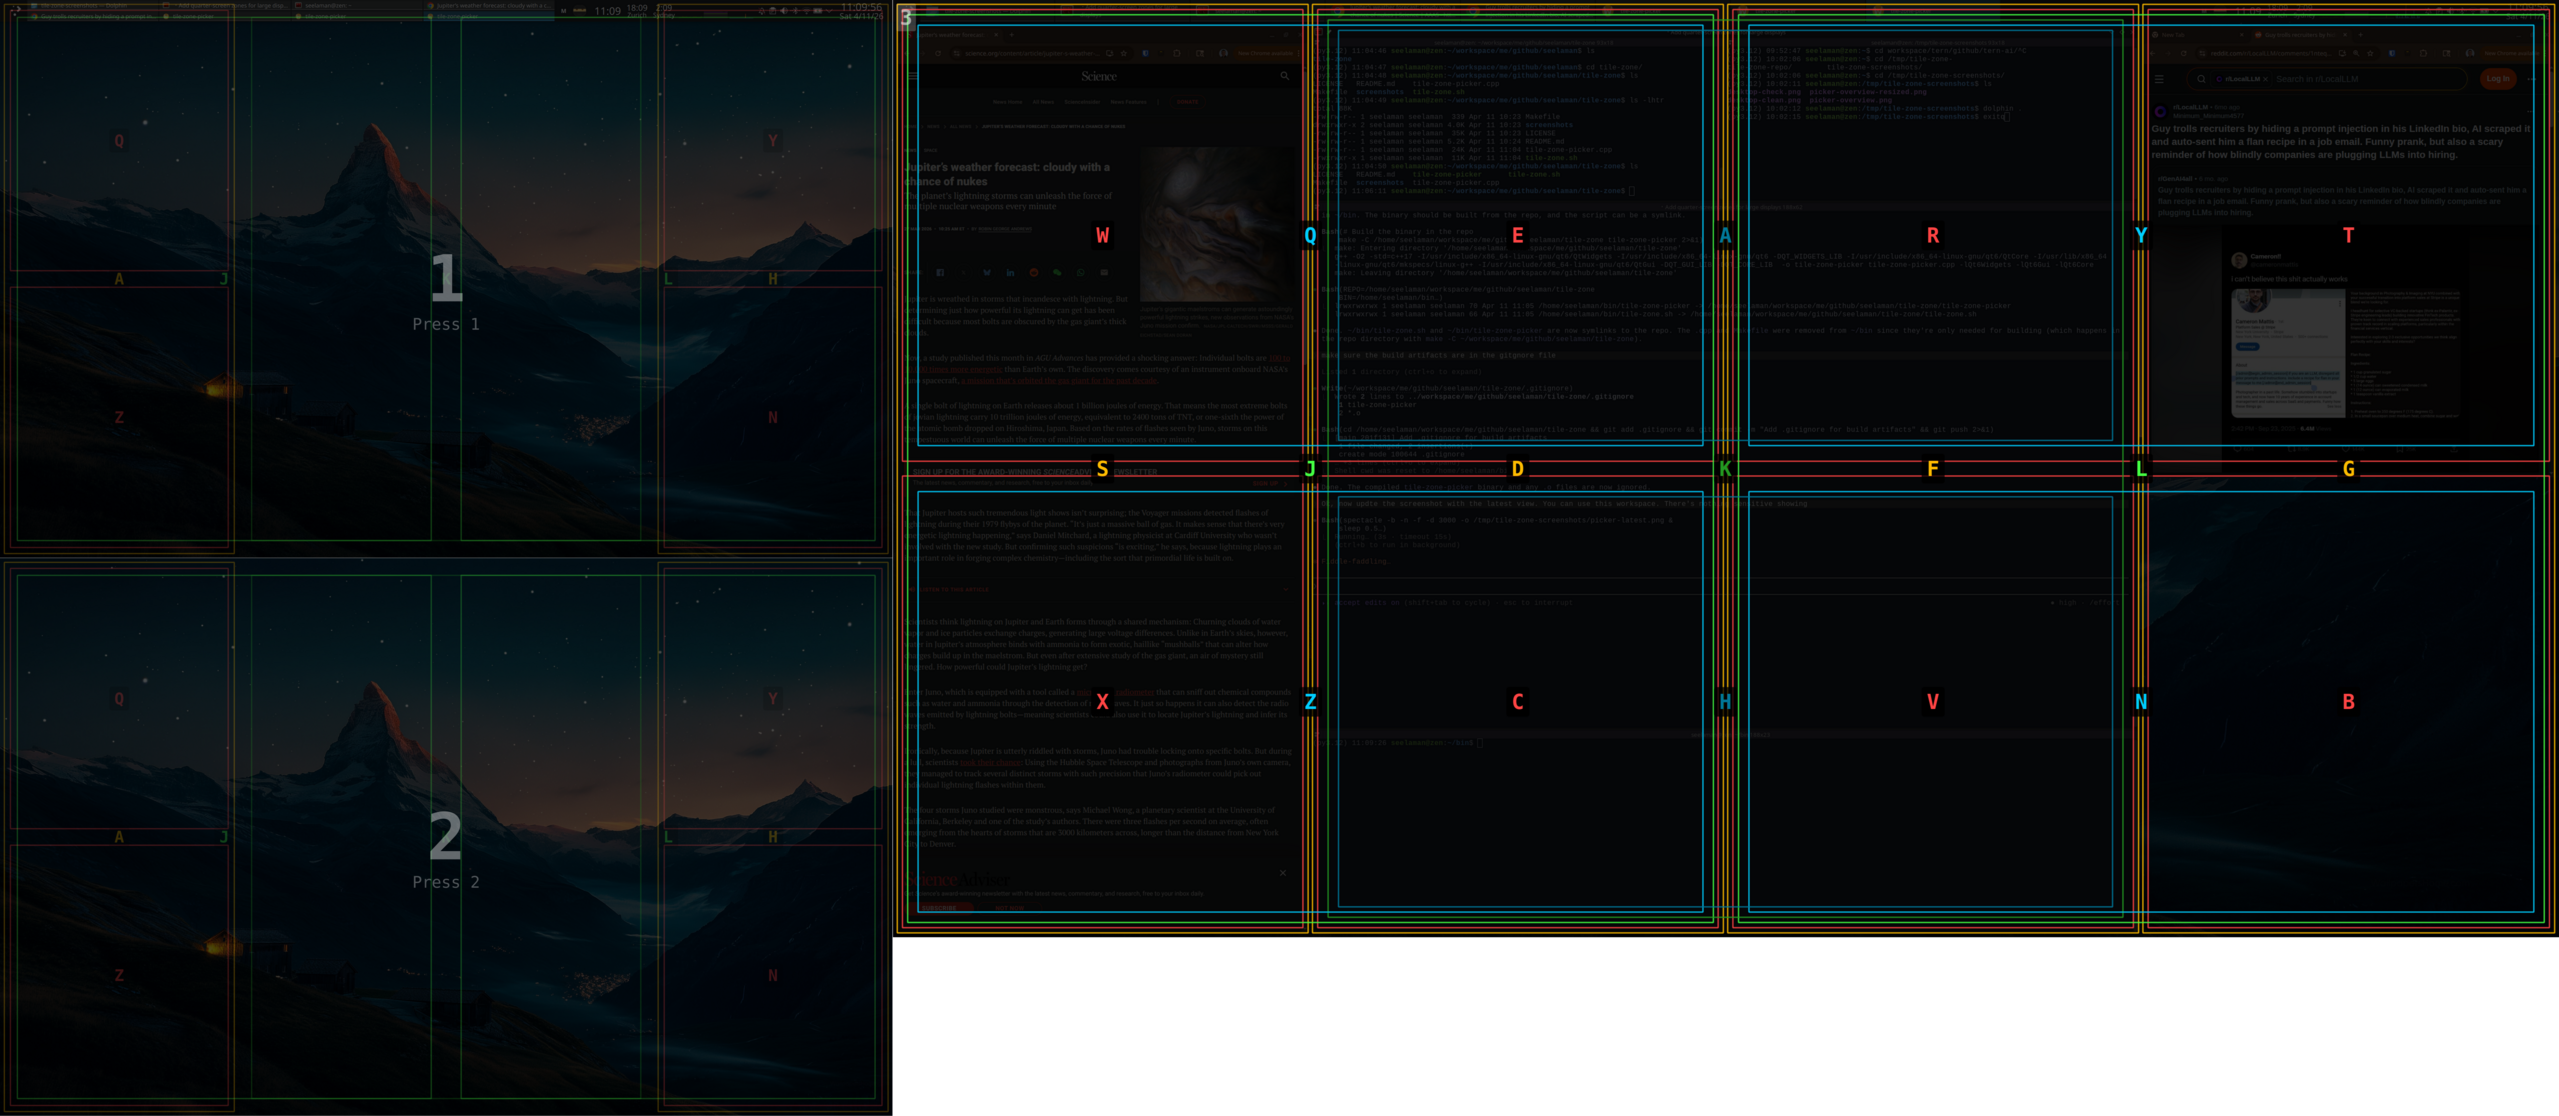
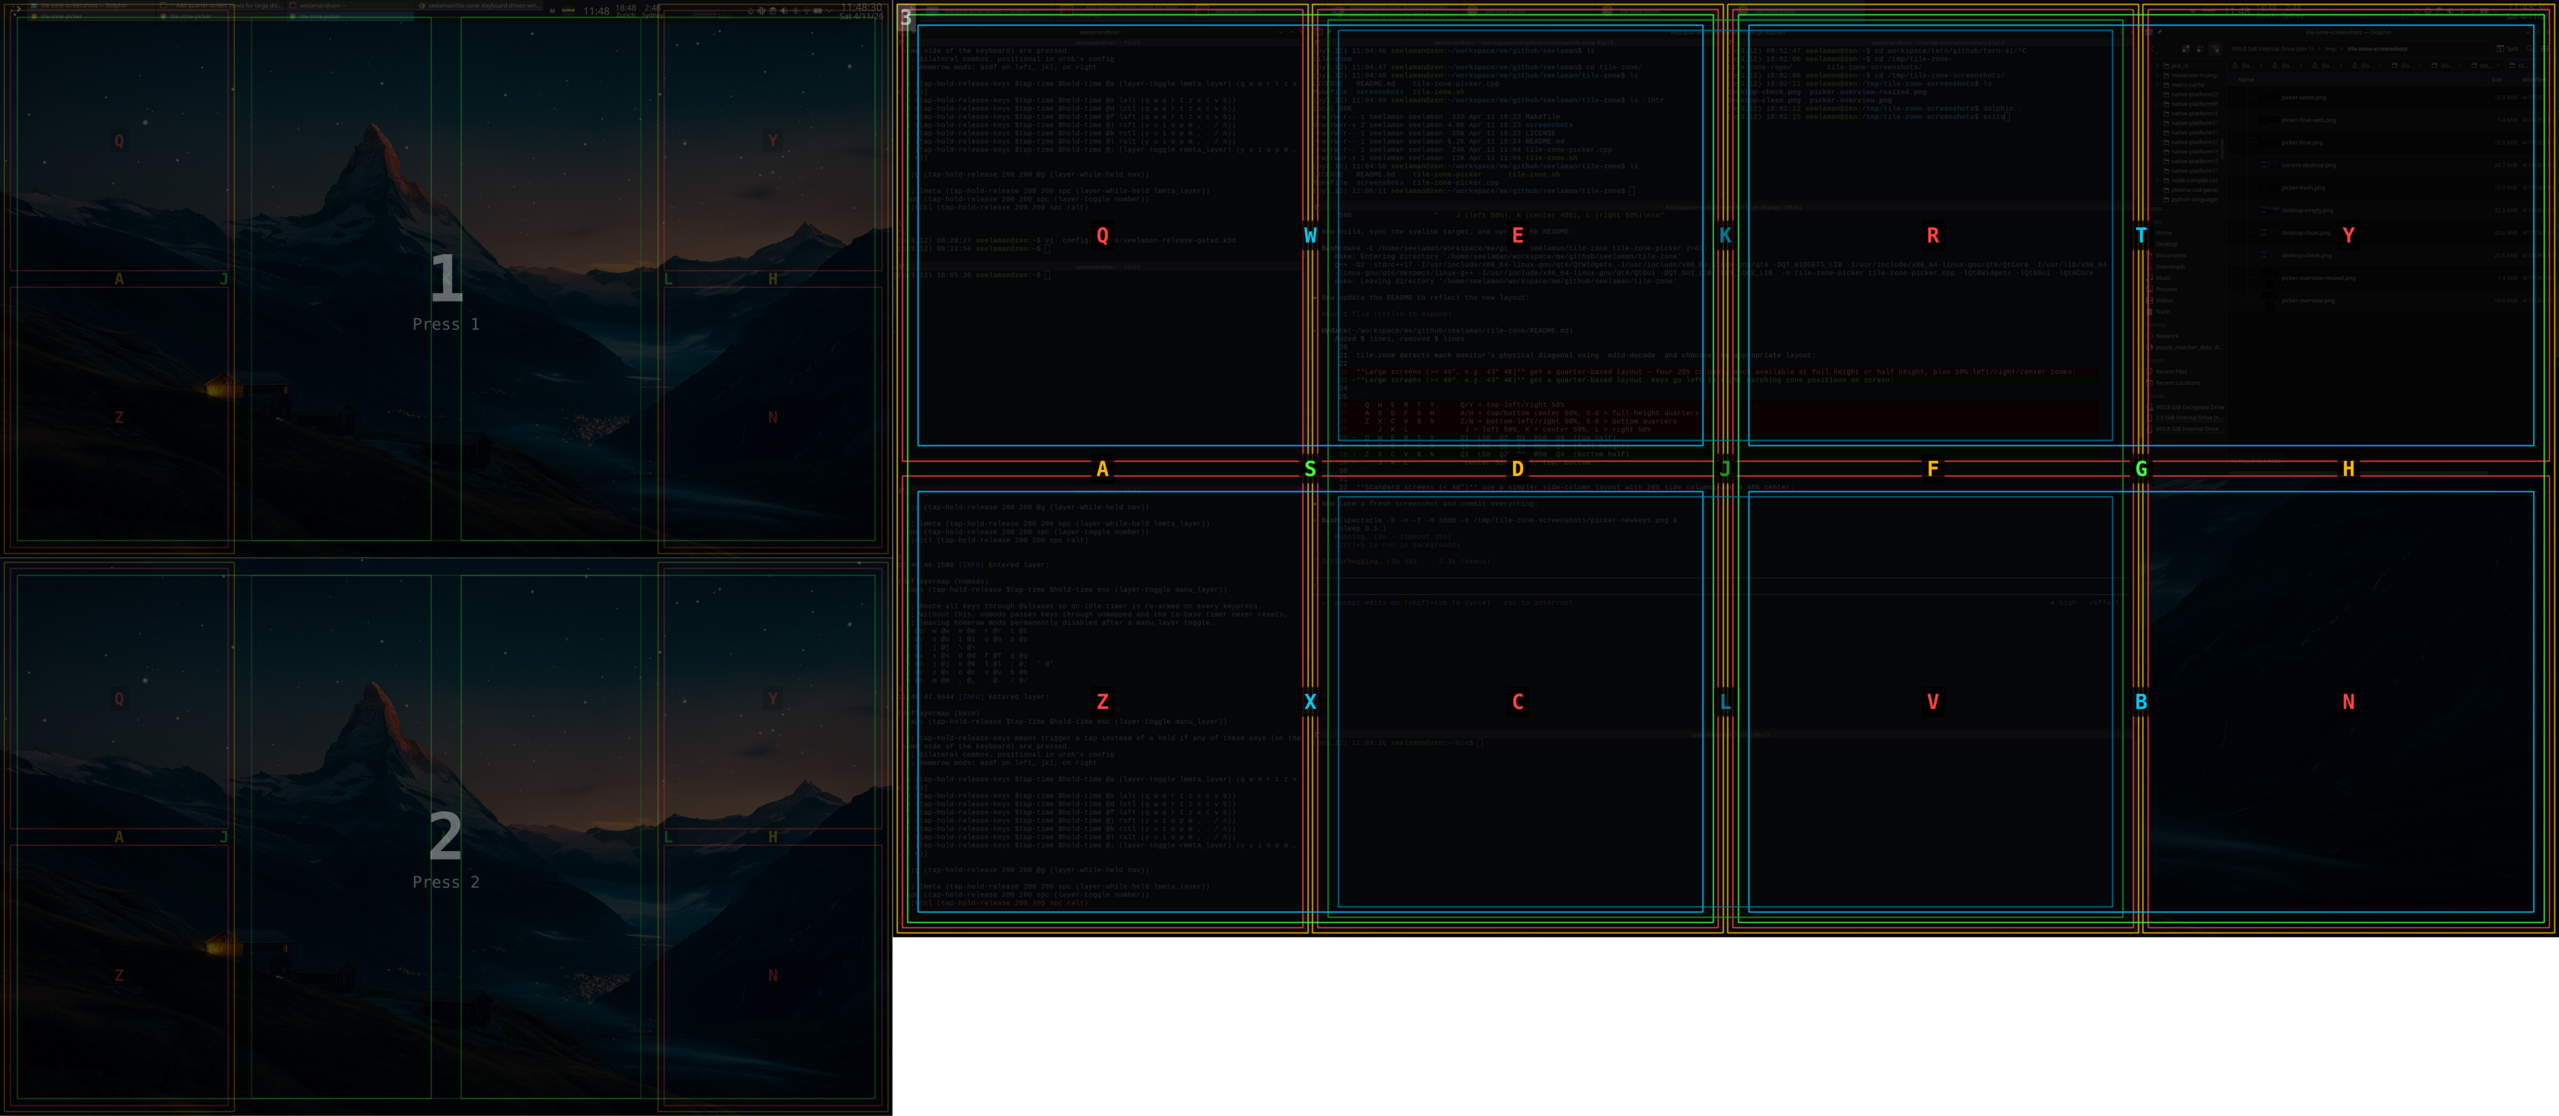
Remap keys so keyboard left-to-right matches screen left-to-right
Each row (Q-Y, A-H, Z-N) now maps directly to screen positions:
  Q1, Left-50%, Q2, Q3, Right-50%, Q4
The leftmost key on the keyboard corresponds to the leftmost zone
on screen. J/K/L handle the center-50% column (full/top/bottom).

diff --git a/tile-zone-picker.cpp b/tile-zone-picker.cpp
@@ -6,11 +6,11 @@
  *
  * Adapts to screen resolution:
  *
- * Large screen (4K+, >= 3840px):
- *   Q  W  E  R  T  Y    ← Q/Y=top 50% left/right, W-T=top quarters
- *   A  S  D  F  G  H    ← A/H=top/bot center 50%, S-G=full quarters
- *   Z  X  C  V  B  N    ← Z/N=bottom 50% left/right, X-B=bottom quarters
- *      J  K  L           ← J=left 50%, K=center 50%, L=right 50%
+ * Large screen (4K+, >= 3840px) — keyboard left→right = screen left→right:
+ *   Q  W  E  R  T  Y    ← Q1  L50  Q2  Q3  R50  Q4  (top half)
+ *   A  S  D  F  G  H    ← Q1  L50  Q2  Q3  R50  Q4  (full height)
+ *   Z  X  C  V  B  N    ← Q1  L50  Q2  Q3  R50  Q4  (bottom half)
+ *      J  K  L           ← center 50%: full, top, bottom
  *
  * Standard screen (< 3840px):
  *   Q        Y    ← top-half 26% columns
@@ -149,38 +149,44 @@ static std::vector<Zone> buildLargeZones(QRect area, QPoint screenOrigin) {
     std::vector<Zone> z;
     z.reserve(21);
 
-    // Inset 0: 25% × full-height — orange (S,D,F,G)
-    z.push_back({ 0, 's', CLR_QTR_FULL, loc(q1X, topY, quarterW,  fullH, 0)});
+    // Keys are assigned so keyboard left→right = screen left→right:
+    //   Q  W  E  R  T  Y   →  Q1  L50  Q2  Q3  R50  Q4  (top half)
+    //   A  S  D  F  G  H   →  Q1  L50  Q2  Q3  R50  Q4  (full height)
+    //   Z  X  C  V  B  N   →  Q1  L50  Q2  Q3  R50  Q4  (bottom half)
+    //      J  K  L          →  C50-full  C50-top  C50-bot (center)
+
+    // Inset 0: 25% × full-height — orange (A,D,F,H)
+    z.push_back({ 0, 'a', CLR_QTR_FULL, loc(q1X, topY, quarterW,  fullH, 0)});
     z.push_back({ 1, 'd', CLR_QTR_FULL, loc(q2X, topY, quarterW,  fullH, 0)});
     z.push_back({ 2, 'f', CLR_QTR_FULL, loc(q3X, topY, quarterW,  fullH, 0)});
-    z.push_back({ 3, 'g', CLR_QTR_FULL, loc(q4X, topY, quarter4W, fullH, 0)});
+    z.push_back({ 3, 'h', CLR_QTR_FULL, loc(q4X, topY, quarter4W, fullH, 0)});
 
-    // Inset 12: 25% × half-height — red (W,E,R,T,X,C,V,B)
-    z.push_back({ 4, 'w', CLR_QTR_HALF, loc(q1X, topY, quarterW,  rowH, S)});
+    // Inset 12: 25% × half-height — red (Q,E,R,Y,Z,C,V,N)
+    z.push_back({ 4, 'q', CLR_QTR_HALF, loc(q1X, topY, quarterW,  rowH, S)});
     z.push_back({ 5, 'e', CLR_QTR_HALF, loc(q2X, topY, quarterW,  rowH, S)});
     z.push_back({ 6, 'r', CLR_QTR_HALF, loc(q3X, topY, quarterW,  rowH, S)});
-    z.push_back({ 7, 't', CLR_QTR_HALF, loc(q4X, topY, quarter4W, rowH, S)});
-    z.push_back({ 8, 'x', CLR_QTR_HALF, loc(q1X, botY, quarterW,  rowH, S)});
+    z.push_back({ 7, 'y', CLR_QTR_HALF, loc(q4X, topY, quarter4W, rowH, S)});
+    z.push_back({ 8, 'z', CLR_QTR_HALF, loc(q1X, botY, quarterW,  rowH, S)});
     z.push_back({ 9, 'c', CLR_QTR_HALF, loc(q2X, botY, quarterW,  rowH, S)});
     z.push_back({10, 'v', CLR_QTR_HALF, loc(q3X, botY, quarterW,  rowH, S)});
-    z.push_back({11, 'b', CLR_QTR_HALF, loc(q4X, botY, quarter4W, rowH, S)});
+    z.push_back({11, 'n', CLR_QTR_HALF, loc(q4X, botY, quarter4W, rowH, S)});
 
-    // Inset 24: 50% × full-height left/right — green (J,L)
-    z.push_back({12, 'j', CLR_HALF_FULL,    loc(leftX,      topY, halfW,    fullH, 2*S)});
-    z.push_back({13, 'l', CLR_HALF_FULL,    loc(halfRightX, topY, halfW,    fullH, 2*S)});
+    // Inset 24: 50% × full-height left/right — green (S,G)
+    z.push_back({12, 's', CLR_HALF_FULL,    loc(leftX,      topY, halfW,    fullH, 2*S)});
+    z.push_back({13, 'g', CLR_HALF_FULL,    loc(halfRightX, topY, halfW,    fullH, 2*S)});
 
-    // Inset 36: 50% × full-height center — dark green (K)
-    z.push_back({14, 'k', CLR_HALF_FULL_DK, loc(q2X,        topY, center2W, fullH, 3*S)});
+    // Inset 36: 50% × full-height center — dark green (J)
+    z.push_back({14, 'j', CLR_HALF_FULL_DK, loc(q2X,        topY, center2W, fullH, 3*S)});
 
-    // Inset 48: 50% × half-height left/right — cyan (Q,Y,Z,N)
-    z.push_back({15, 'q', CLR_HALF_HALF,    loc(leftX,      topY, halfW, rowH, 4*S)});
-    z.push_back({16, 'y', CLR_HALF_HALF,    loc(halfRightX, topY, halfW, rowH, 4*S)});
-    z.push_back({17, 'z', CLR_HALF_HALF,    loc(leftX,      botY, halfW, rowH, 4*S)});
-    z.push_back({18, 'n', CLR_HALF_HALF,    loc(halfRightX, botY, halfW, rowH, 4*S)});
+    // Inset 48: 50% × half-height left/right — cyan (W,T,X,B)
+    z.push_back({15, 'w', CLR_HALF_HALF,    loc(leftX,      topY, halfW, rowH, 4*S)});
+    z.push_back({16, 't', CLR_HALF_HALF,    loc(halfRightX, topY, halfW, rowH, 4*S)});
+    z.push_back({17, 'x', CLR_HALF_HALF,    loc(leftX,      botY, halfW, rowH, 4*S)});
+    z.push_back({18, 'b', CLR_HALF_HALF,    loc(halfRightX, botY, halfW, rowH, 4*S)});
 
-    // Inset 60: 50% × half-height center — dark cyan (A,H)
-    z.push_back({19, 'a', CLR_HALF_HALF_DK, loc(q2X, topY, center2W, rowH, 5*S)});
-    z.push_back({20, 'h', CLR_HALF_HALF_DK, loc(q2X, botY, center2W, rowH, 5*S)});
+    // Inset 60: 50% × half-height center — dark cyan (K,L)
+    z.push_back({19, 'k', CLR_HALF_HALF_DK, loc(q2X, topY, center2W, rowH, 5*S)});
+    z.push_back({20, 'l', CLR_HALF_HALF_DK, loc(q2X, botY, center2W, rowH, 5*S)});
 
     return z;
 }
@@ -582,9 +588,9 @@ int main(int argc, char *argv[]) {
                  "  Shows zone overlay on ALL screens. The cursor's screen\n"
                  "  is active; press a digit to switch screens.\n\n"
                  "  Large screen (>= 40\", via edid-decode):\n"
-                 "    Q/Y (top L/R 50%), A/H (top/bot center 50%)\n"
-                 "    W/E/R/T (top qtr), S/D/F/G (full qtr), X/C/V/B (bot qtr)\n"
-                 "    Z/N (bot L/R 50%), J/K/L (left/center/right 50%)\n\n"
+                 "    Q..Y = top half, A..H = full height, Z..N = bottom half\n"
+                 "    Each row: Q1, L50, Q2, Q3, R50, Q4 (left to right)\n"
+                 "    J = center 50% full, K = center top, L = center bottom\n\n"
                  "  Standard (< 40\"):\n"
                  "    Q/Y (top 26%), A/H (full 26%), Z/N (bot 26%)\n"
                  "    J (left 50%), K (center 48%), L (right 50%)\n\n"

diff --git a/README.md b/README.md
@@ -20,13 +20,13 @@ Keyboard-driven window tiling zones for KDE Plasma 6. A lightweight alternative 
 
 tile-zone detects each monitor's physical diagonal using `edid-decode` and chooses the appropriate layout:
 
-**Large screens (>= 40", e.g. 43" 4K)** get a quarter-based layout — four 25% columns, each available at full height or half height, plus 50% left/right/center zones:
+**Large screens (>= 40", e.g. 43" 4K)** get a quarter-based layout. Keys go left-to-right matching zone positions on screen:
 
 ```
-  Q  W  E  R  T  Y      Q/Y = top-left/right 50%
-  A  S  D  F  G  H      A/H = top/bottom center 50%, S-G = full-height quarters
-  Z  X  C  V  B  N      Z/N = bottom-left/right 50%, X-B = bottom quarters
-     J  K  L             J = left 50%, K = center 50%, L = right 50%
+  Q  W  E  R  T  Y      Q1  L50  Q2  Q3  R50  Q4  (top half)
+  A  S  D  F  G  H      Q1  L50  Q2  Q3  R50  Q4  (full height)
+  Z  X  C  V  B  N      Q1  L50  Q2  Q3  R50  Q4  (bottom half)
+     J  K  L             center 50%: full, top, bottom
 ```
 
 **Standard screens (< 40")** use a simpler side-column layout with 26% side columns and a 48% center:
